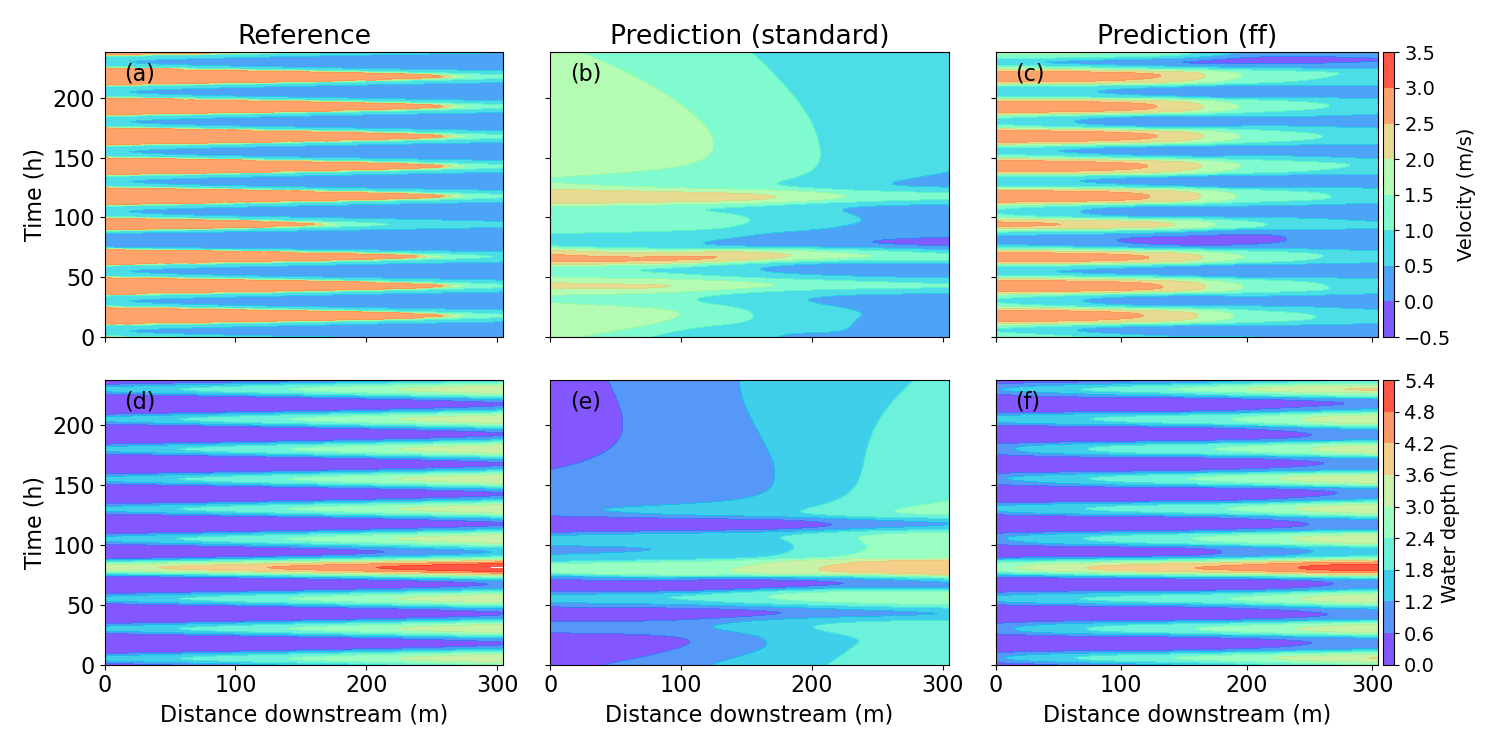
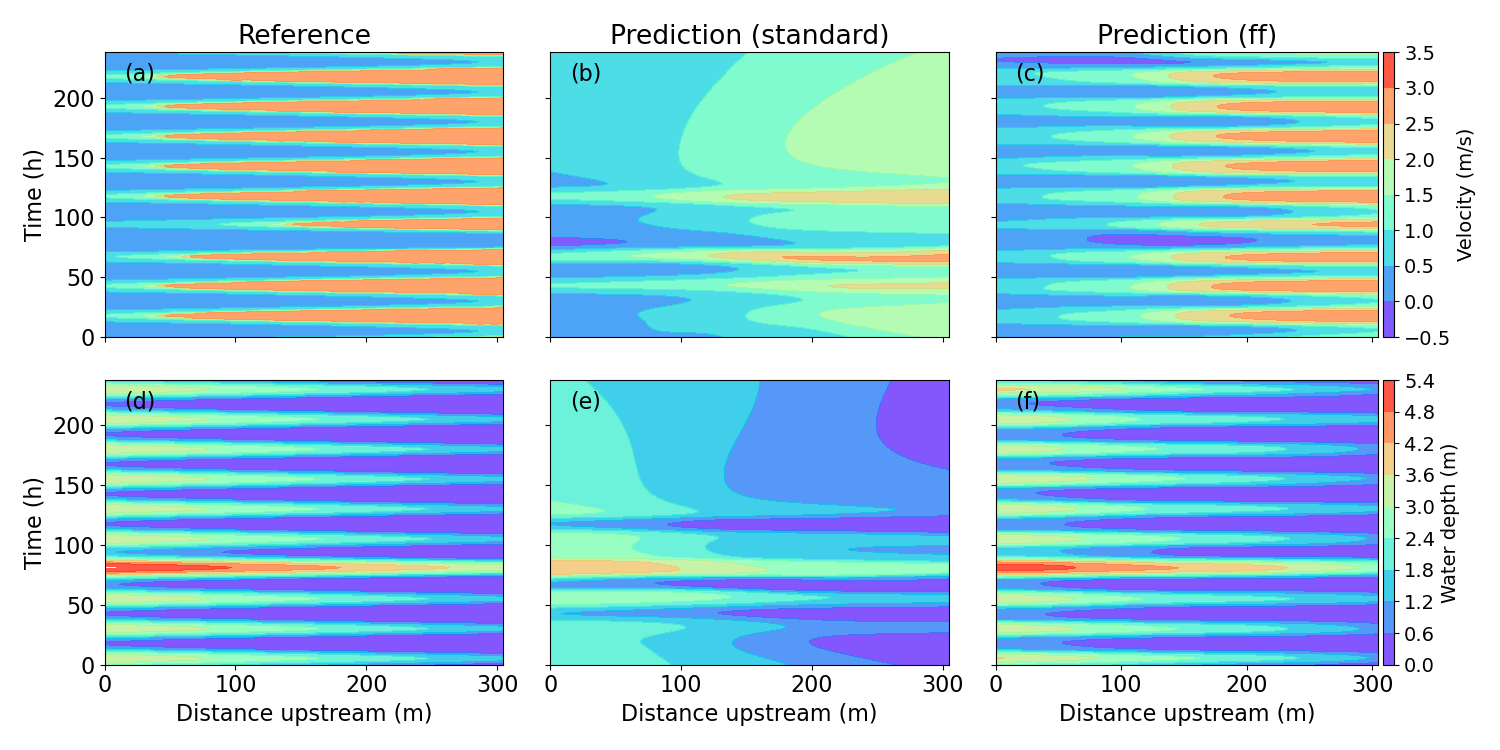
minor change in plotting

diff --git a/PINN_channel/case3_plot.py b/PINN_channel/case3_plot.py
@@ -214,6 +214,7 @@ if __name__ == "__main__":
     h_test = h_test.reshape([Nt_test, Nx])
     
     hours = np.arange(len(time_model[:Nt_test]))/4.
+    x = x[::-1]  ## reverse the channel for plotting
     xx, tt = np.meshgrid(x.flatten(), hours)
 
     factor = 0.3048   # ft to m 
@@ -251,13 +252,13 @@ if __name__ == "__main__":
     levels = np.linspace(0, 5, 9)
     cs = axes[1,0].contourf(xx, tt, h_test[:Nt_test,:], cmap='rainbow', levels=levels, alpha = 0.8)
     axes[1,0].set_ylabel('Time (h)')
-    axes[1,0].set_xlabel('Distance downstream (m)')
+    axes[1,0].set_xlabel('Distance upstream (m)')
 
     cs = axes[1,1].contourf(xx, tt, h_pred1[:Nt_test,:], cmap='rainbow', levels=levels, alpha = 0.8)
-    axes[1,1].set_xlabel('Distance downstream (m)')
+    axes[1,1].set_xlabel('Distance upstream (m)')
 
     cs = axes[1,2].contourf(xx, tt, h_pred2[:Nt_test,:], cmap='rainbow', levels=levels, alpha = 0.8)
-    axes[1,2].set_xlabel('Distance downstream (m)')
+    axes[1,2].set_xlabel('Distance upstream (m)')
     divider = make_axes_locatable(axes[1,2])
     cax = divider.append_axes("right", size="3%", pad=0.05)
     cb = fig.colorbar(cs, cax=cax, orientation='vertical')
@@ -294,8 +295,8 @@ if __name__ == "__main__":
         axes[k, 1].set_ylim([0,5])
         axes[k, 1].grid()
         if k == len(tlist) - 1:
-            axes[k, 0].set_xlabel('Distance downstream (m)')
-            axes[k, 1].set_xlabel('Distance downstream (m)')
+            axes[k, 0].set_xlabel('Distance upstream (m)')
+            axes[k, 1].set_xlabel('Distance upstream (m)')
         if k == 0:
             axes[k, 0].legend(loc=7,prop={'size': 12})
 

diff --git a/PINN_channel/case4_plot.py b/PINN_channel/case4_plot.py
@@ -217,6 +217,7 @@ if __name__ == "__main__":
     h_test = h_test.reshape([Nt_test, Nx])
     
     hours = np.arange(len(time_model[:Nt_test]))
+    x = x[::-1]  ## reverse the channel for plotting
     xx, tt = np.meshgrid(x.flatten(), hours)
 
     factor = 0.3048   # ft to m 
@@ -254,13 +255,13 @@ if __name__ == "__main__":
     levels = np.linspace(0, 5.4, 10)
     cs = axes[1,0].contourf(xx, tt, h_test[:Nt_test,:], cmap='rainbow', levels=levels, alpha = 0.8)
     axes[1,0].set_ylabel('Time (h)')
-    axes[1,0].set_xlabel('Distance downstream (m)')
+    axes[1,0].set_xlabel('Distance upstream (m)')
 
     cs = axes[1,1].contourf(xx, tt, h_pred1[:Nt_test,:], cmap='rainbow', levels=levels, alpha = 0.8)
-    axes[1,1].set_xlabel('Distance downstream (m)')
+    axes[1,1].set_xlabel('Distance upstream (m)')
 
     cs = axes[1,2].contourf(xx, tt, h_pred2[:Nt_test,:], cmap='rainbow', levels=levels, alpha = 0.8)
-    axes[1,2].set_xlabel('Distance downstream (m)')
+    axes[1,2].set_xlabel('Distance upstream (m)')
     divider = make_axes_locatable(axes[1,2])
     cax = divider.append_axes("right", size="3%", pad=0.05)
     cb = fig.colorbar(cs, cax=cax, orientation='vertical')
@@ -295,8 +296,8 @@ if __name__ == "__main__":
         axes[k, 1].set_ylim([0,5])
         axes[k, 1].grid()
         if k == len(tlist) - 1:
-            axes[k, 0].set_xlabel('Distance downstream (m)')
-            axes[k, 1].set_xlabel('Distance downstream (m)')
+            axes[k, 0].set_xlabel('Distance upstream (m)')
+            axes[k, 1].set_xlabel('Distance upstream (m)')
         if k == 0:
             axes[k, 0].legend(loc=7,prop={'size': 12})
 

diff --git a/PINN_subgrid/case5_plot.py b/PINN_subgrid/case5_plot.py
@@ -206,6 +206,7 @@ if __name__ == "__main__":
     h_test = h_test.reshape([Nt_test, Nx])
     
     hours = np.arange(len(time_model[:Nt_test]))
+    x = x[::-1]  ## reverse the channel for plotting
     xx, tt = np.meshgrid(x.flatten(), hours)
 
     factor = 0.3048   # ft to m 
@@ -226,15 +227,15 @@ if __name__ == "__main__":
     levels = np.linspace(0, 5.4, 10)
     cs = axes[0].contourf(xx, tt, h_test[:Nt_test,:], cmap='rainbow', levels=levels, alpha = 0.8)
     axes[0].set_ylabel('Time (h)')
-    axes[0].set_xlabel('Distance downstream (m)')
+    axes[0].set_xlabel('Distance upstream (m)')
     axes[0].set_title('Reference')
 
     cs = axes[1].contourf(xx, tt, h_pred1[:Nt_test,:], cmap='rainbow', levels=levels, alpha = 0.8)
-    axes[1].set_xlabel('Distance downstream (m)')
+    axes[1].set_xlabel('Distance upstream (m)')
     axes[1].set_title('Prediction (standard)')
 
     cs = axes[2].contourf(xx, tt, h_pred2[:Nt_test,:], cmap='rainbow', levels=levels, alpha = 0.8)
-    axes[2].set_xlabel('Distance downstream (m)')
+    axes[2].set_xlabel('Distance upstream (m)')
     axes[2].set_title('Prediction (ff)')
     divider = make_axes_locatable(axes[2])
     cax = divider.append_axes("right", size="3%", pad=0.05)
@@ -266,7 +267,7 @@ if __name__ == "__main__":
         axes[k].set_ylim([0,5])
         axes[k].grid()
         if k in [2,3]:
-            axes[k].set_xlabel('Distance downstream (m)')
+            axes[k].set_xlabel('Distance upstream (m)')
         if k == 0:
             axes[k].legend(loc=3,prop={'size': 14})
 
